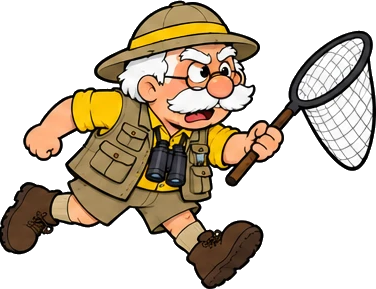
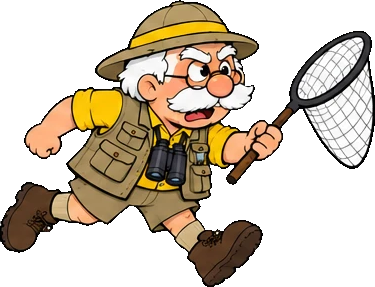
Destacadas de IG con Don Ofertín: 6 tapas + 6 historias; recorte sin halo blanco

diff --git a/bot/tools/destacadas.py b/bot/tools/destacadas.py
@@ -1,0 +1,120 @@
+"""Genera las tapas e historias de las destacadas de Instagram con Don Ofertín
+(docs/personaje/destacadas/). Se corre a mano; Raifel las sube desde el celular
+porque la API de Instagram no permite crear destacadas."""
+
+import sys
+from pathlib import Path
+
+from PIL import Image, ImageDraw, ImageOps
+
+sys.path.insert(0, str(Path(__file__).resolve().parents[1]))
+from story import AMBER, BG, GRAY, WHITE, _font, _wrap  # noqa: E402
+from tools.recortar_personaje import quitar_fondo  # noqa: E402
+
+ROOT = Path(__file__).resolve().parents[2]
+PJ = ROOT / "docs" / "personaje"
+OUT = PJ / "destacadas"
+W, H = 1080, 1920
+EXP_W, EXP_H = 1672 // 4, 941 // 3  # grilla 4x3 de expresiones.webp
+
+
+def expresion(n: int) -> Image.Image:
+    r, c = divmod(n - 1, 4)
+    m = 10
+    caja = (c * EXP_W + m, r * EXP_H + m, (c + 1) * EXP_W - m, (r + 1) * EXP_H - m)
+    return quitar_fondo(Image.open(PJ / "expresiones.webp").crop(caja))
+
+
+def escena(n: int) -> Image.Image:
+    """Escena sin el tercio superior vacío (fondo negro, se pega sobre BG)."""
+    im = Image.open(PJ / f"escena-{n}.webp").convert("RGB")
+    im = im.crop((0, int(im.height * 0.30), im.width, im.height))
+    # negro conectado al borde → transparente (así no queda un recuadro)
+    w, h = im.size
+    m = im.convert("L").point(lambda v: 255 if v > 40 else 0)
+    for x in range(0, w, 8):
+        for y in (0, h - 1):
+            if m.getpixel((x, y)) == 0:
+                ImageDraw.floodfill(m, (x, y), 128)
+    for y in range(0, h, 8):
+        for x in (0, w - 1):
+            if m.getpixel((x, y)) == 0:
+                ImageDraw.floodfill(m, (x, y), 128)
+    out = im.convert("RGBA")
+    out.putalpha(m.point(lambda v: 0 if v == 128 else 255))
+    return out.crop(out.getbbox())
+
+
+def tapa(nombre: str, exp: int) -> None:
+    img = Image.new("RGB", (W, H), BG)
+    d = ImageDraw.Draw(img)
+    r = 470  # IG recorta un círculo centrado: todo lo importante adentro
+    d.ellipse([W // 2 - r, H // 2 - r, W // 2 + r, H // 2 + r], fill=AMBER)
+    cara = ImageOps.contain(expresion(exp), (720, 620))
+    img.paste(cara, ((W - cara.width) // 2, H // 2 - cara.height // 2 + 30), cara)
+    img.save(OUT / f"tapa-{nombre}.jpg", quality=92)
+
+
+def historia(nombre: str, titulo: str, cuerpo: list[str], imagen: Image.Image,
+             link: str) -> None:
+    img = Image.new("RGB", (W, H), BG)
+    d = ImageDraw.Draw(img)
+    d.text((W // 2, 150), "CAZADOR DE OFERTAS AR", font=_font(40), fill=AMBER, anchor="mm")
+    y = 290
+    for linea in _wrap(d, titulo, _font(84), 960, 3):
+        d.text((W // 2, y), linea, font=_font(84), fill=WHITE, anchor="mm")
+        y += 100
+    y += 30
+    for parrafo in cuerpo:
+        for linea in _wrap(d, parrafo, _font(46, bold=False), 940, 4):
+            d.text((W // 2, y), linea, font=_font(46, bold=False), fill=WHITE, anchor="mm")
+            y += 60
+        y += 24
+    # imagen del personaje entre el texto y el link
+    alto = 1640 - y - 20
+    pj = ImageOps.contain(imagen.convert("RGBA"), (980, max(alto, 300)))
+    img.paste(pj, ((W - pj.width) // 2, 1640 - pj.height), pj)
+    # espacio para el sticker de link de IG + texto del link
+    d.rounded_rectangle([120, 1680, W - 120, 1800], radius=60, fill=AMBER)
+    tam = 40
+    while d.textlength(link, font=_font(tam)) > W - 300 and tam > 22:
+        tam -= 2
+    d.text((W // 2, 1740), link, font=_font(tam), fill=BG, anchor="mm")
+    d.text((W // 2, 1860), "tocá el link para entrar", font=_font(32, bold=False), fill=GRAY, anchor="mm")
+    img.save(OUT / f"historia-{nombre}.jpg", quality=92)
+
+
+if __name__ == "__main__":
+    OUT.mkdir(parents=True, exist_ok=True)
+    pose = lambda n: quitar_fondo(Image.open(PJ / "poses.webp").crop(  # noqa: E731
+        ((n - 1) % 4 * 384 + 14, (n - 1) // 4 * 341 + 14,
+         ((n - 1) % 4 + 1) * 384 - 14, ((n - 1) // 4 + 1) * 341 - 14)))
+    D = [
+        ("1-como-funciona", 5, "SOY DON OFERTÍN",
+         ["Cazo ofertas de Mercado Libre y chequeo que el descuento sea real.",
+          "Guardo el historial de precios de cada producto: si antes estaba más barato, te aviso."],
+         escena(6), "cazadordeofertas.com.ar"),
+        ("2-truchos", 3, "¡PRECIO TRUCHO!",
+         ["Suben el precio unos días antes y después le ponen \"50% OFF\".",
+          "En la web te muestro qué descuentos están inflados."],
+         escena(1), "cazadordeofertas.com.ar/descuentos-inflados"),
+        ("3-minimos", 12, "MÍNIMO HISTÓRICO",
+         ["Cuando un producto llega a su precio más bajo registrado, lo marco así.",
+          "Mirá el historial de cada producto antes de comprar."],
+         escena(3), "cazadordeofertas.com.ar"),
+        ("4-cupones", 8, "CUPONES DE MERCADO LIBRE",
+         ["Dónde encontrar los cupones vigentes y cómo usarlos para pagar menos."],
+         pose(5), "cazadordeofertas.com.ar/cupones-mercado-libre"),
+        ("5-alertas", 6, "TE AVISO SI BAJA",
+         ["1. Entrá al producto en la web.",
+          "2. Tocá \"Avisame si baja\".",
+          "3. Te escribo por Telegram cuando baje el precio."],
+         escena(4), "cazadordeofertas.com.ar"),
+        ("6-regalos", 7, "REGALOS DÍA DE LA MADRE",
+         ["Ideas por presupuesto: hasta $100.000, de $100.000 a $300.000 y regalos grandes."],
+         escena(5), "cazadordeofertas.com.ar/dia-de-la-madre"),
+    ]
+    for nombre, exp, titulo, cuerpo, im, link in D:
+        tapa(nombre, exp)
+        historia(nombre, titulo, cuerpo, im, link)
+        print(nombre)

diff --git a/bot/tools/recortar_personaje.py b/bot/tools/recortar_personaje.py
@@ -4,7 +4,7 @@ cambian las hojas: el bot solo usa los PNG ya recortados."""
 
 from pathlib import Path
 
-from PIL import Image, ImageDraw
+from PIL import Image, ImageDraw, ImageFilter
 
 ROOT = Path(__file__).resolve().parents[2]
 SRC = ROOT / "docs" / "personaje"
@@ -43,6 +43,7 @@ def quitar_fondo(img: Image.Image) -> Image.Image:
     if semilla:
         ImageDraw.floodfill(alpha, semilla, 200)
         alpha = alpha.point(lambda v: 255 if v == 200 else 0)
+    alpha = alpha.filter(ImageFilter.MinFilter(3))  # saca el halo blanco del borde
     out = img.convert("RGBA")
     out.putalpha(alpha)
     return out.crop(out.getbbox())
